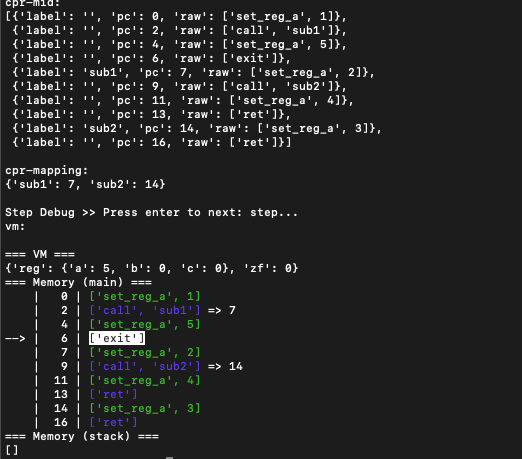
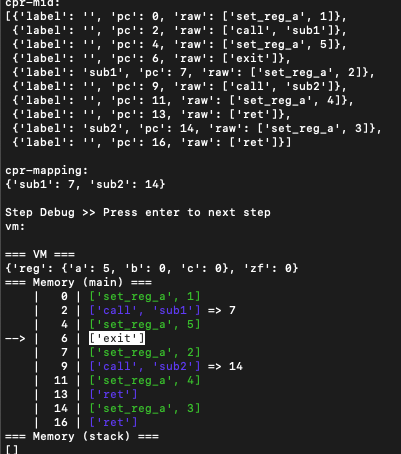
:削除！

diff --git a/vm.py b/vm.py
@@ -52,7 +52,7 @@ class VM:
 
     def start(self, step_debug=False):
         if step_debug:
-            print("Step Debug >> Press enter to next: step...")
+            print("Step Debug >> Press enter to next step")
         print("vm:\n")
         while True:
             # self.mem.dump_main(self.pc)
